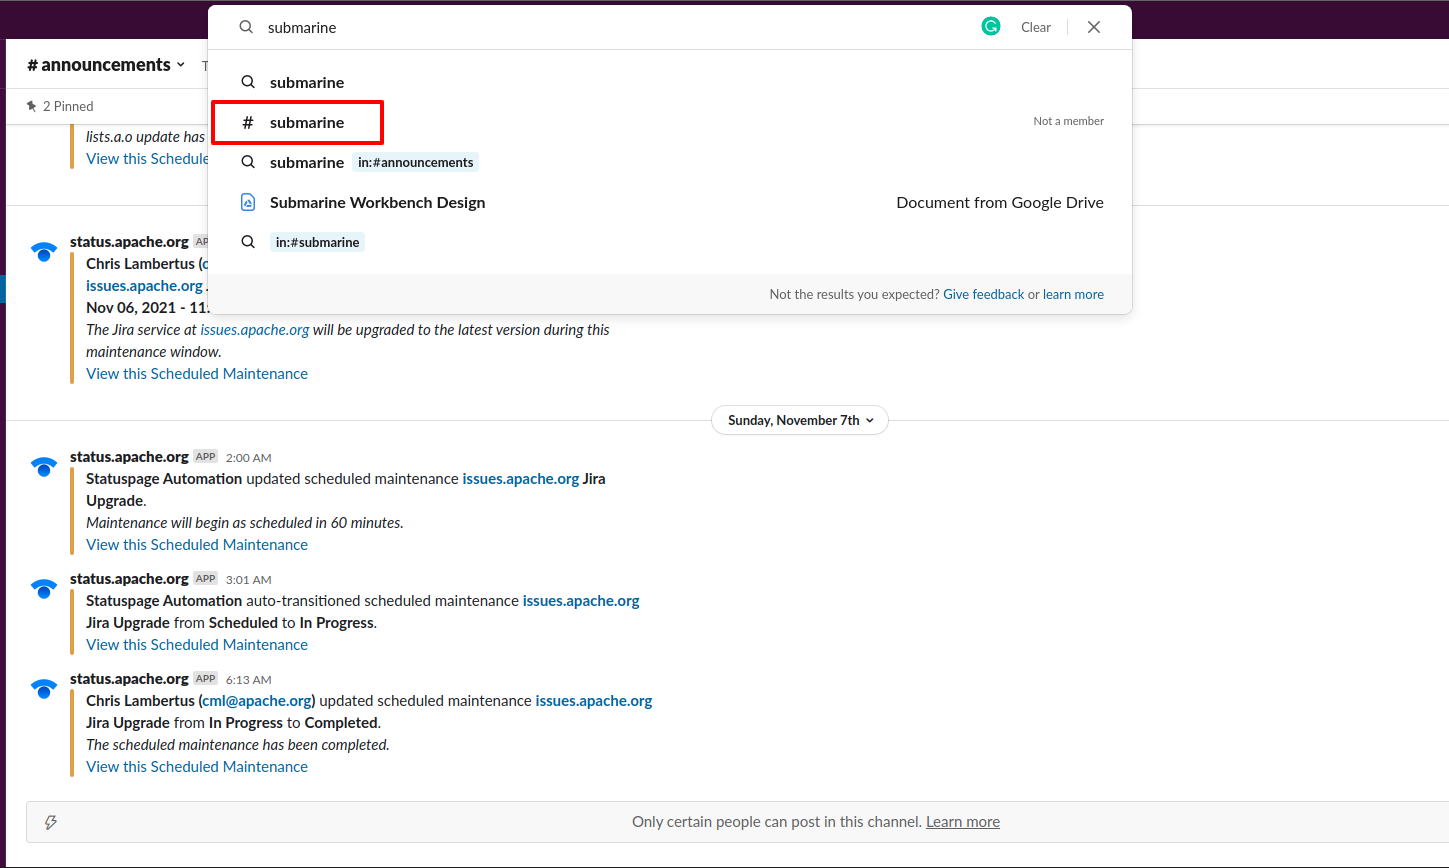
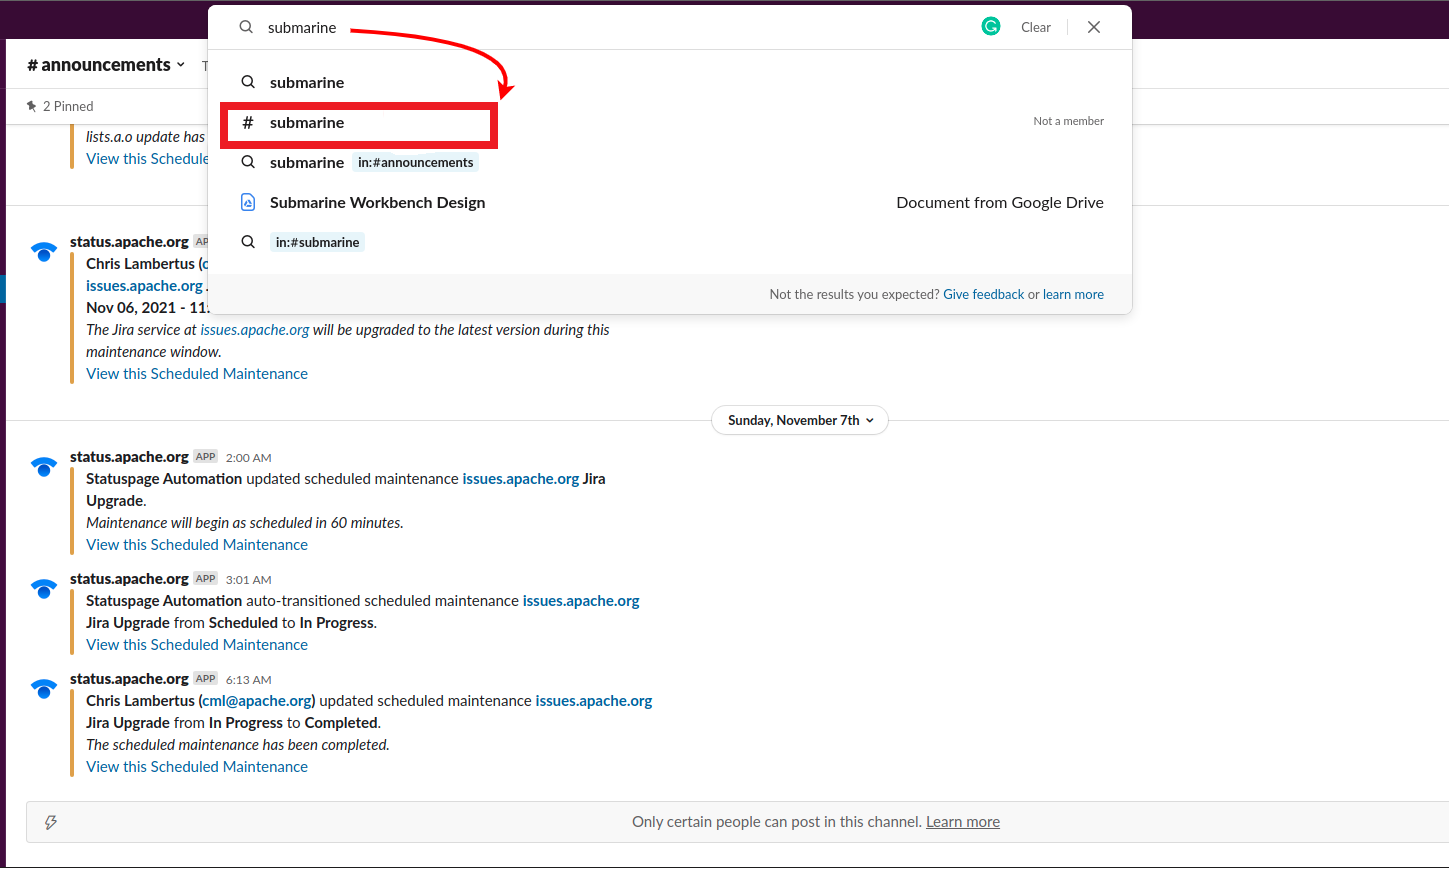
SUBMARINE-1252. Make the figure and hint that search submarine channel in ASF more clear

diff --git a/website/docs/community/README.md b/website/docs/community/README.md
@@ -25,7 +25,9 @@ Your journey of becoming a contributor and committer starts from here: improving
 You can reach out to the community members via any one of the following ways:
 
 - Slack Developer: [https://join.slack.com/t/the-asf/shared_invite/zt-vlfbf7ch-HkbNHiU_uDlcH_RvaHv9gQ](https://join.slack.com/t/the-asf/shared_invite/zt-vlfbf7ch-HkbNHiU_uDlcH_RvaHv9gQ)
-  After clicking the link above, you would join the ASF slack workspace, where you could search the submarine channel and join it.
+  :::info
+  After clicking the link above, you would join the ASF slack workspace, where you could **search the submarine channel and join it.**
+  :::
   ![slack_search_submarine](/img/slack_search_submarine.png)
   ![slack_join_submarine](/img/slack_join_submarine.png)
 - Zoom: [https://cloudera.zoom.us/j/880548968](https://cloudera.zoom.us/j/880548968)
